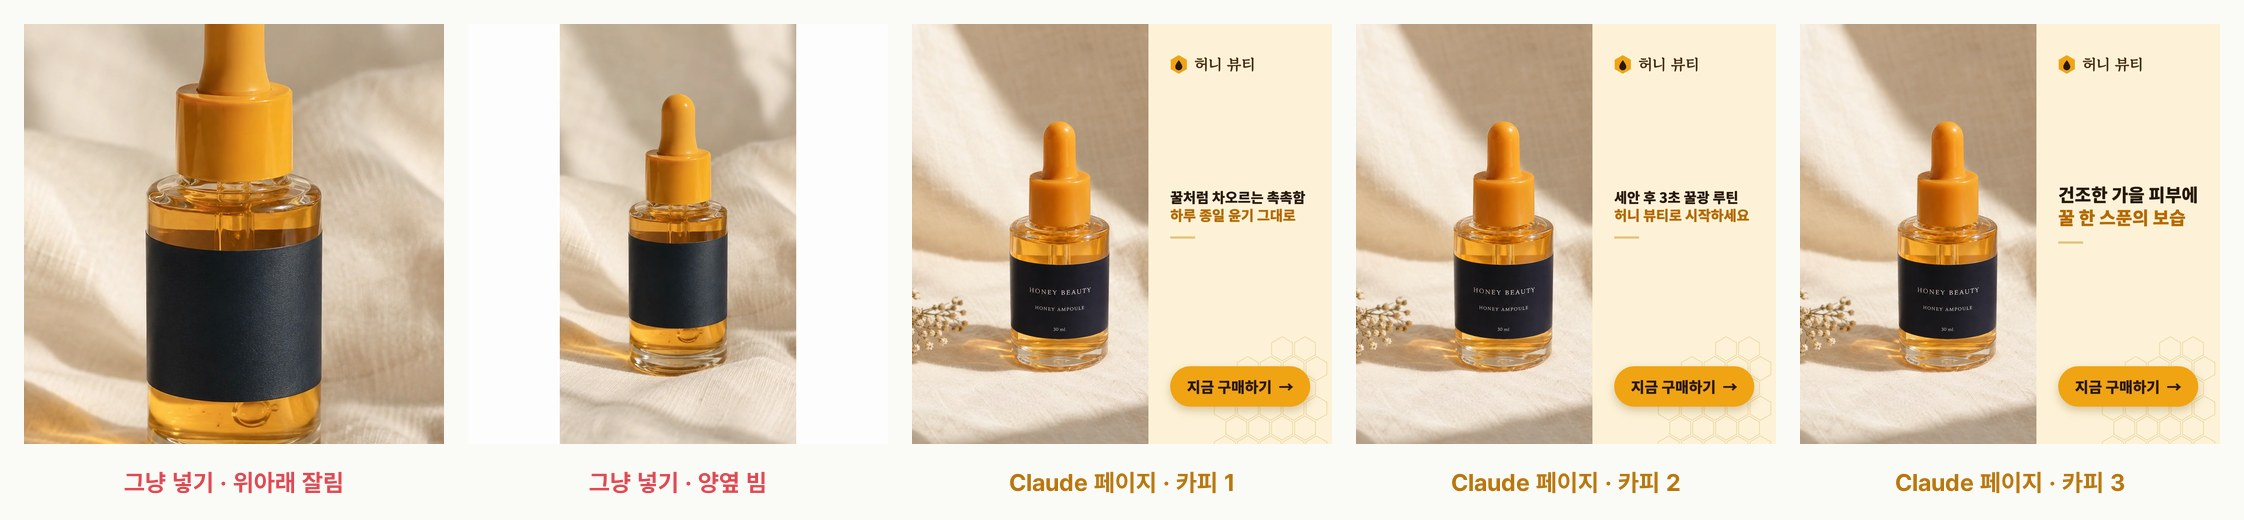
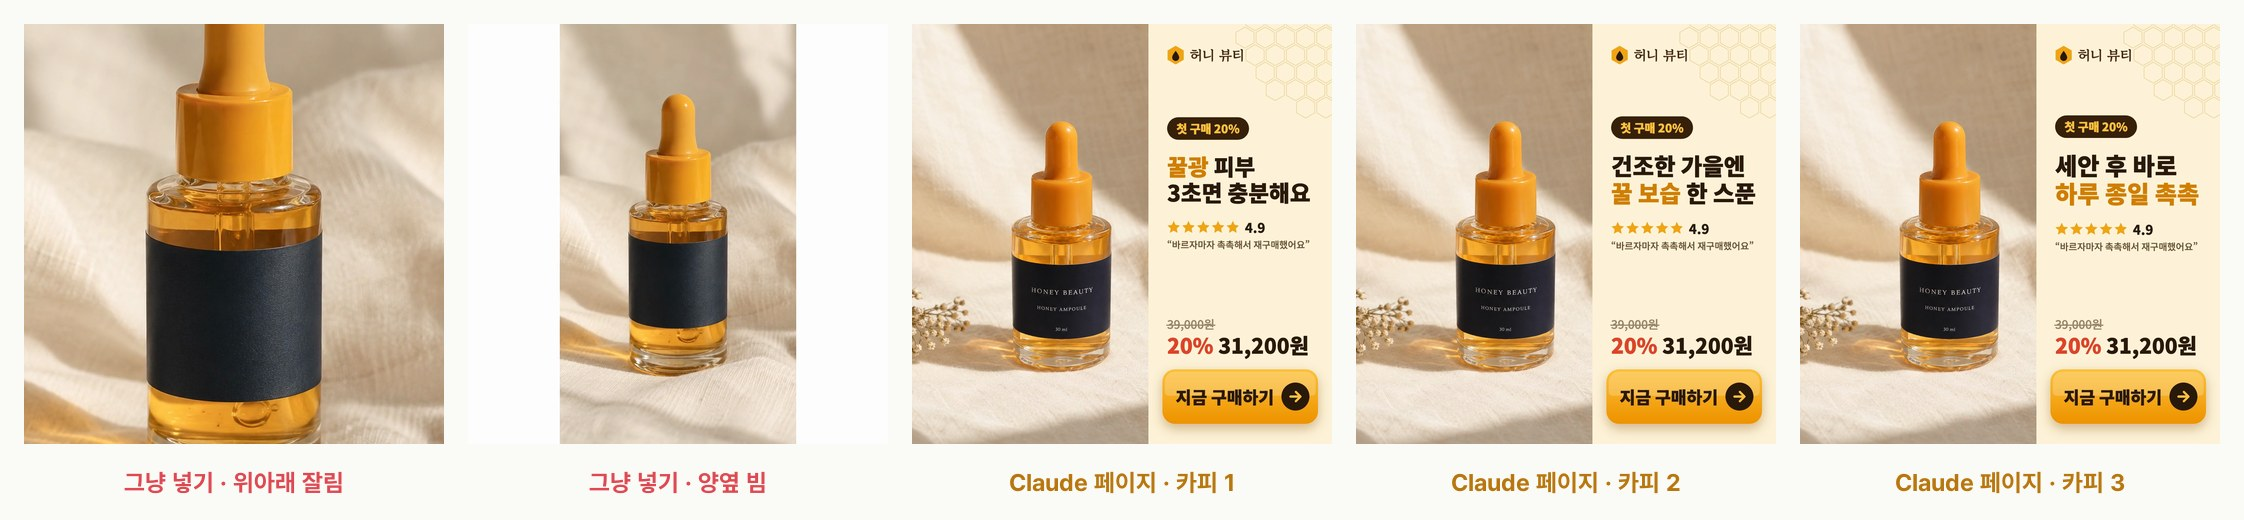
EP.17 상세 노트 — 후속 요청 두 개(오른쪽 배너 광고형 · 끊김 없는 프레임 단위 인코딩) · 새 결과 이미지

diff --git a/ep/17/index.html b/ep/17/index.html
@@ -34,7 +34,15 @@
     <div class="prompt" id="square-request">
       <div class="label">정방형 판 만드는 페이지</div>
       <pre>세로(9:16) 숏폼 영상을 올리면 1080×1080 정방형 광고 영상으로 만들어 주는 페이지를 만들어 줘. 왼쪽엔 세로 영상을 높이에 꽉 차게, 오른쪽엔 카피 두 줄과 '지금 구매하기' 버튼, 브랜드 이름 '허니 뷰티'. 카피는 입력칸에서 바꿀 수 있게 하고, 줄마다 하나씩 여러 개 넣으면 카피별로 만들 수 있게 해 줘. 완성 영상은 MP4로 내려받는 버튼도 달아 줘.</pre>
-      <p class="tip">💡 만들어진 페이지에서 ① 숏폼 영상 올리기 ② 카피 칸에 한 줄에 하나씩(한 광고 안에서 줄을 나누려면 <code>/</code>) ③ '광고 영상 N개 만들기' → 카드마다 'MP4 저장'. 9초 영상 3개가 약 9초 만에 나왔어요.</p>
+    </div>
+    <div class="prompt" id="square-request-2">
+      <div class="label">이어서 ① 오른쪽 배너를 광고처럼</div>
+      <pre>오른쪽 배너 칸을 더 매력적인 광고 소재로 바꿔 줘. 위에 혜택 배지(예: '첫 구매 20%'), 카피는 더 크고 굵게 핵심 단어만 꿀색 강조, 그 아래 별점 ★4.9와 짧은 리뷰 한 줄, 가격(정가 취소선 + 할인가), 버튼은 더 크고 눈에 띄게. 배지·리뷰·가격도 입력칸에서 바꿀 수 있게 해 주고, 영상 칸과 MP4 저장은 지금처럼 유지해 줘.</pre>
+    </div>
+    <div class="prompt" id="square-request-3">
+      <div class="label">이어서 ② 영상이 끊기면</div>
+      <pre>만든 MP4가 끊겨요. 재생하면서 녹화하지 말고, 영상을 1/30초씩 직접 넘기면서(seek) 한 프레임씩 그려 인코딩해서 30fps가 빠짐없이 들어가게 고쳐 줘. 시간이 조금 더 걸려도 괜찮아요.</pre>
+      <p class="tip">💡 만들어진 페이지에서 ① 숏폼 영상 올리기 ② 카피 칸에 한 줄에 하나씩(한 광고 안에서 줄을 나누려면 <code>/</code>) ③ '광고 영상 N개 만들기' → 카드마다 'MP4 저장'. ②까지 고친 뒤 9초 영상 3개가 약 8초 만에, 30fps 270프레임 빠짐없이 나왔어요.</p>
     </div>
   </section>
 
@@ -48,7 +56,7 @@
     <ul class="muted" style="padding-left:18px;line-height:1.8">
       <li>완성 크기 <b>1080 × 1080</b>(정방형 1:1).</li>
       <li>왼쪽 영상 칸 <b>608 × 1080</b>(= 세로 9:16이 높이에 꽉 차는 폭). 9:16이 아닌 영상은 가운데 기준으로 잘려 들어가요.</li>
-      <li>오른쪽 472px에 브랜드 · 카피 두 줄 · 버튼. 카피가 길면 글자 크기가 자동으로 줄어요.</li>
+      <li>오른쪽 472px에 브랜드 · 혜택 배지 · 카피 두 줄(<code>*단어*</code>는 꿀색 강조) · 별점과 리뷰 한 줄 · 정가/할인가 · 버튼. 카피가 길면 글자 크기가 자동으로 줄어요.</li>
     </ul>
   </section>
 
@@ -57,7 +65,7 @@
     <div class="warn">
       <ul>
         <li><b>Chrome이나 Edge</b>에서 열어야 인코딩돼요. Safari·Firefox에서는 안내 문구만 떠요.</li>
-        <li>결과는 MP4(H.264 · 1080×1080 · 30fps)로 확인했어요. 원본에 소리가 있으면 그대로 들어가요.</li>
+        <li>처음 만든 페이지는 재생하면서 녹화해서 영상이 끊긴 적이 있어요(9초에 162프레임). '이어서 ②' 요청으로 고친 뒤엔 MP4(H.264 · 1080×1080 · 30fps · 270프레임)로 확인했어요. 원본에 소리가 있으면 그대로 들어가요.</li>
         <li>저장할 때 claude.ai가 "파일을 다운로드하도록 허용할까요?"를 물어요. '파일 저장'을 직접 눌러야 받아져요.</li>
         <li>판 디자인(색·폰트·버튼)은 브랜드에 맞게 "오른쪽 패널 색을 ○○로" 같이 이어서 요청하세요.</li>
       </ul>
